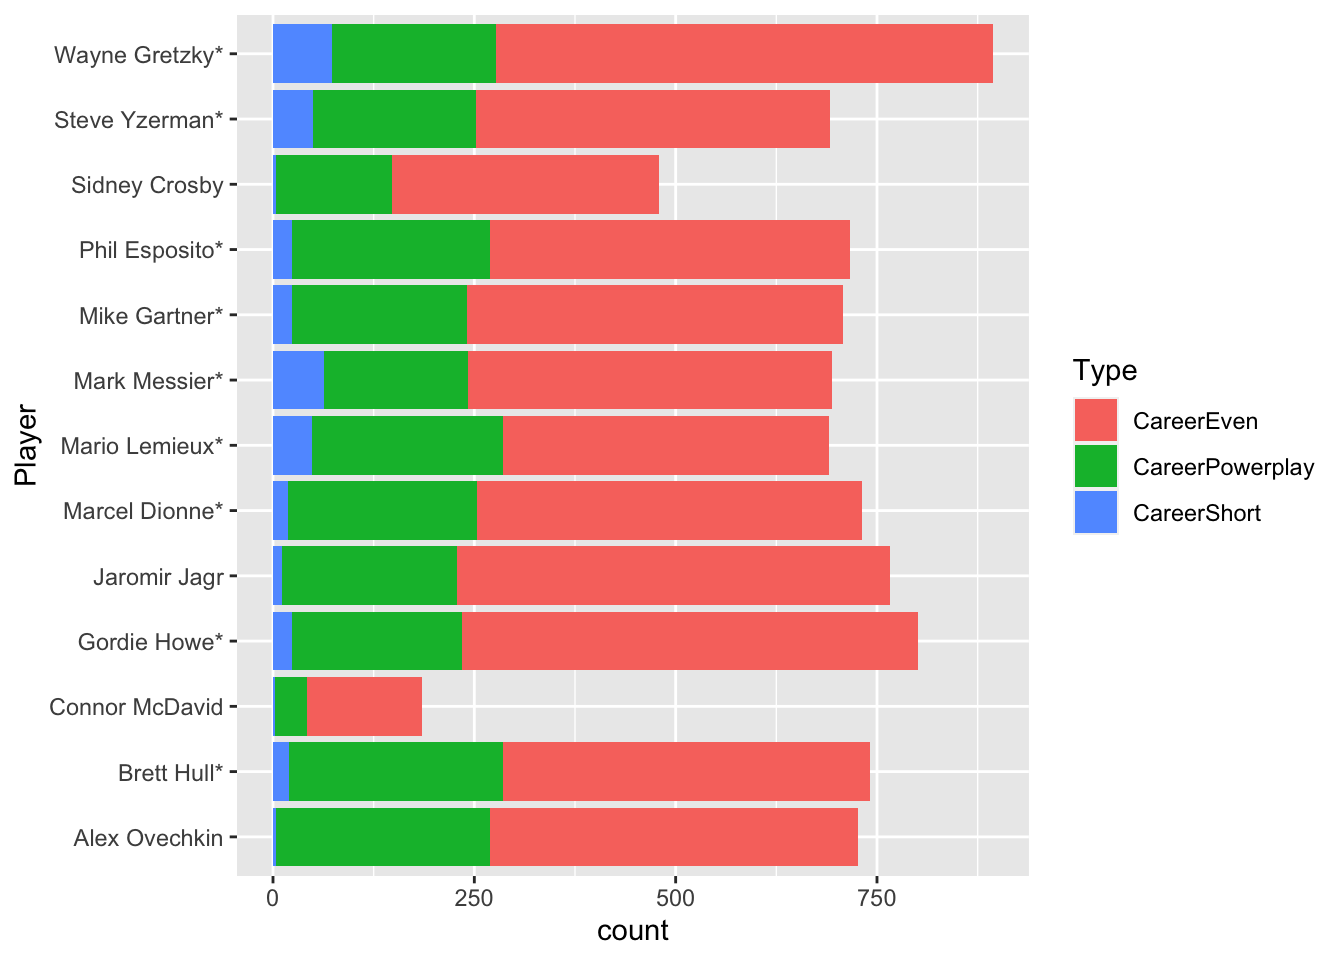
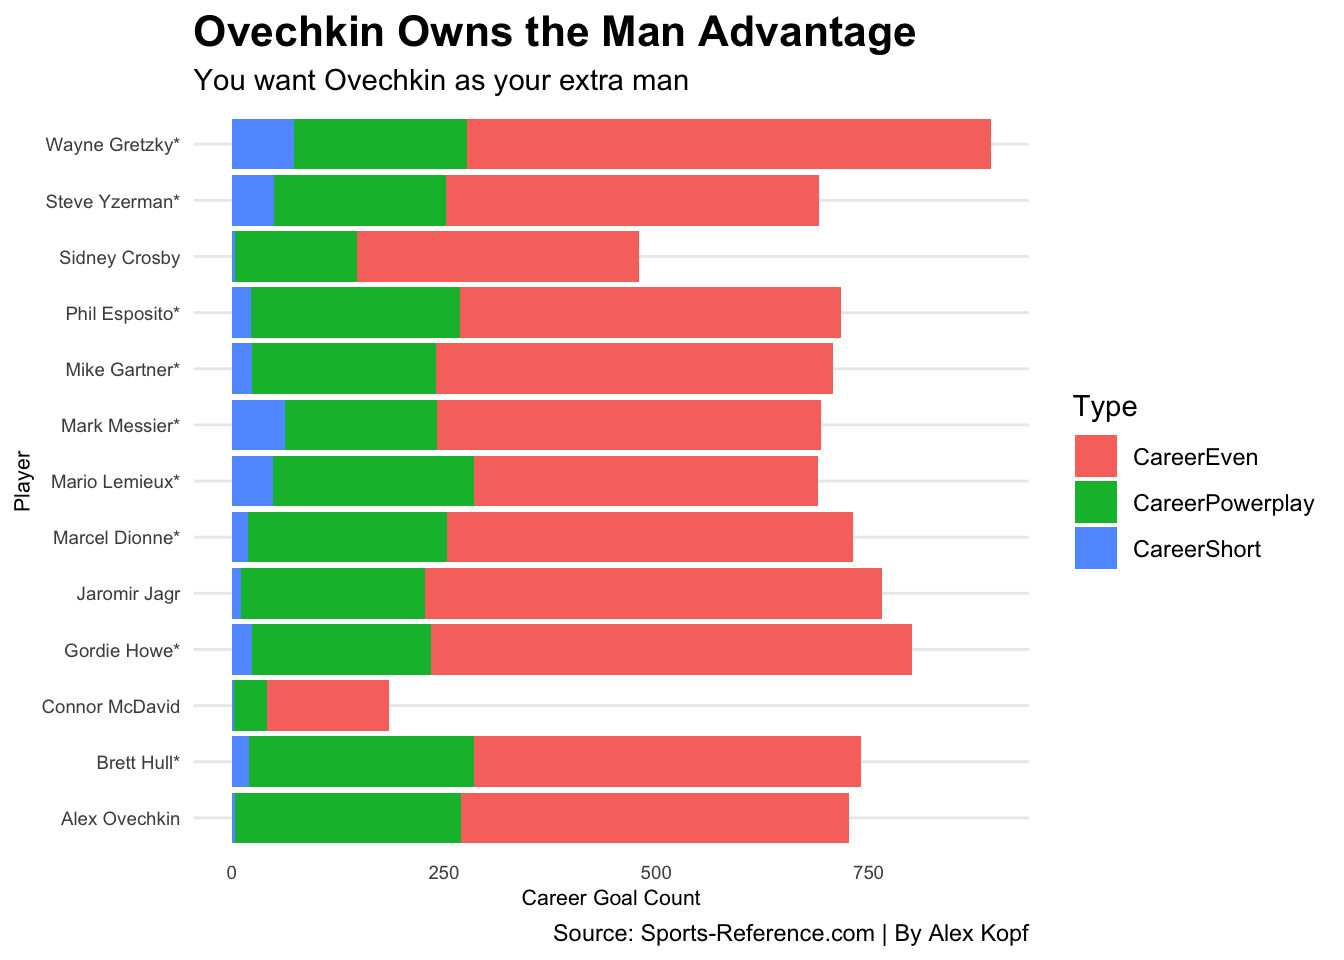
final final commit

diff --git a/2021/04/20/is-ovechkin-the-0greatest-pure-goal-scorer-of-all-time/index.html b/2021/04/20/is-ovechkin-the-0greatest-pure-goal-scorer-of-all-time/index.html
@@ -62,7 +62,7 @@
 
   <article class="article">
     
-    <span class="article-duration">2 min read</span>
+    <span class="article-duration">5 min read</span>
     
 
     <h1 class="article-title">Is Ovechkin the Greatest Pure Goal Scorer of All Time?</h1>
@@ -77,31 +77,16 @@
 
 
 <p>As a hockey fan my entire life, and sharing the same first name, I have always been a fan of Russian superstar Alexander Ovechkin of the Washington Capitals. As he continues his career, Ovechkin is nearing Gretzky’s goal record more and more. Even if he doesn’t pass it, could he be considered right now as the best pure goal scorer of all time? Lets look at some data</p>
-<pre class="r"><code>library(tidyverse)</code></pre>
-<pre><code>## ── Attaching packages ─────────────────────────────────────── tidyverse 1.3.1 ──</code></pre>
-<pre><code>## ✓ ggplot2 3.3.3     ✓ purrr   0.3.4
-## ✓ tibble  3.1.0     ✓ dplyr   1.0.5
-## ✓ tidyr   1.1.3     ✓ stringr 1.4.0
-## ✓ readr   1.4.0     ✓ forcats 0.5.1</code></pre>
-<pre><code>## ── Conflicts ────────────────────────────────────────── tidyverse_conflicts() ──
-## x dplyr::filter() masks stats::filter()
-## x dplyr::lag()    masks stats::lag()</code></pre>
-<pre class="r"><code>library(ggrepel)</code></pre>
+<pre class="r"><code>library(tidyverse)
+library(ggrepel)
+library(rvest)</code></pre>
 <pre class="r"><code>Ovi &lt;- read_csv(&quot;OviandGreats.csv&quot;)</code></pre>
-<pre><code>## Warning: Duplicated column names deduplicated: &#39;G&#39; =&gt; &#39;G_1&#39; [27], &#39;A&#39; =&gt;
-## &#39;A_1&#39; [28], &#39;PTS&#39; =&gt; &#39;PTS_1&#39; [29]</code></pre>
-<pre><code>## 
-## ── Column specification ────────────────────────────────────────────────────────
-## cols(
-##   .default = col_double(),
-##   Player = col_character(),
-##   Tm = col_character(),
-##   Pos = col_character()
-## )
-## ℹ Use `spec()` for the full column specifications.</code></pre>
-<pre class="r"><code>Ovi &lt;- Ovi %&gt;% mutate(Player=gsub(&quot;\\\\.*&quot;,&quot;&quot;,Player))</code></pre>
-<pre class="r"><code>Ovechkin &lt;- Ovi %&gt;% filter(Player == &quot;Alex Ovechkin&quot;)
-Gretzky &lt;- Ovi %&gt;% filter(Player == &quot;Wayne Gretzky*&quot;)</code></pre>
+<pre class="r"><code>Ovi &lt;- Ovi %&gt;% 
+  mutate(Player=gsub(&quot;\\\\.*&quot;,&quot;&quot;,Player))</code></pre>
+<pre class="r"><code>Ovechkin &lt;- Ovi %&gt;%
+  filter(Player == &quot;Alex Ovechkin&quot;)
+Gretzky &lt;- Ovi %&gt;% 
+  filter(Player == &quot;Wayne Gretzky*&quot;)</code></pre>
 <p>In the data set I acquired, we have the Top 11 goal scorers of all time, since Ovechkin is in the Top 10. I also included the player he is most compared to, Sidney Crosby, and argued the best player right now who is Connor McDavid.</p>
 <pre class="r"><code>Ovi %&gt;% summarise(avgspct = mean(`S%`))</code></pre>
 <pre><code>## # A tibble: 1 x 1
@@ -132,7 +117,17 @@ geom_point(
     data=Ovi, 
     aes(x=G, y=`S%`, label=Player)) +
   geom_hline(yintercept = 14.66154) +
-geom_vline(xintercept = 678.8462)</code></pre>
+geom_vline(xintercept = 678.8462) +
+  labs(x=&quot;Goal Count&quot;, y=&quot;Shooting %&quot;, title=&quot;Career Goals and Shooting Percentage&quot;, subtitle=&quot;Ovechkin takes the most shots by far&quot;, caption=&quot;Source: Sports-Reference.com | By Alex Kopf&quot;) +
+  theme_minimal() + 
+  theme(
+    plot.title = element_text(size = 16, face = &quot;bold&quot;),
+    axis.title = element_text(size = 8),
+    axis.text = element_text(size = 7),
+    axis.ticks = element_blank(),
+    panel.grid.minor = element_blank(),
+    panel.grid.major.x = element_blank() 
+  ) </code></pre>
 <p><img src="/2021/04/20/is-ovechkin-the-0greatest-pure-goal-scorer-of-all-time/index_files/figure-html/unnamed-chunk-6-1.png" width="672" />
 As we can see above, Ovechkin is dead last among his peers in the top 10 goal scorers when it comes to shooting percentage. However, he also takes the most shots out of anyone in the data set. Now let’s look at Ovechkin’s strongest suit, the powerplay.</p>
 <pre class="r"><code>goals &lt;- Ovi %&gt;% 
@@ -148,8 +143,88 @@ As we can see above, Ovechkin is dead last among his peers in the top 10 goal sc
     values_to=&quot;Goals&quot;) -&gt; cargoals</code></pre>
 <pre class="r"><code>ggplot(cargoals, aes(x=Player, weight=Goals, fill=Type)) + 
   geom_bar() + 
-  coord_flip() </code></pre>
+  coord_flip() +
+  labs(x=&quot;Player&quot;, y=&quot;Career Goal Count&quot;, title=&quot;Ovechkin Owns the Man Advantage&quot;, subtitle=&quot;You want Ovechkin as your extra man&quot;, caption=&quot;Source: Sports-Reference.com | By Alex Kopf&quot;) +
+  theme_minimal() + 
+  theme(
+    plot.title = element_text(size = 16, face = &quot;bold&quot;),
+    axis.title = element_text(size = 8),
+    axis.text = element_text(size = 7),
+    axis.ticks = element_blank(),
+    panel.grid.minor = element_blank(),
+    panel.grid.major.x = element_blank() 
+  ) </code></pre>
 <p><img src="/2021/04/20/is-ovechkin-the-0greatest-pure-goal-scorer-of-all-time/index_files/figure-html/unnamed-chunk-9-1.png" width="672" /></p>
+<p>As expected, Ovechkin has the most powerplay goals among the rest, so I would say it is safe to conclude if not the best scorer, Ovechkin is the best scorer with a man advantage. Why does this matter? If you’re pulling your goalie, you want Ovechkin as your extra man. Finally, I would like to compare the two main players we want to observe side by side. Ovechkin, and Gretzky.</p>
+<pre class="r"><code>CareerOvi &lt;- read_csv(&quot;ovechkin.csv&quot;) %&gt;% 
+  mutate(Name = &quot;Ovechkin&quot;)
+CareerGretzky &lt;- read_csv(&quot;gretzky.csv&quot;) %&gt;% 
+  mutate(Name = &quot;Gretzky&quot;)</code></pre>
+<pre class="r"><code>POI &lt;- bind_rows(CareerGretzky, CareerOvi)</code></pre>
+<pre class="r"><code>cumPOI &lt;- POI %&gt;% 
+  group_by(Name) %&gt;% 
+  mutate(CumGoals = cumsum(G)) </code></pre>
+<pre class="r"><code>GreatEight &lt;- cumPOI %&gt;% 
+  filter(Name == &quot;Ovechkin&quot;)
+GreatOne &lt;- cumPOI %&gt;% 
+  filter(Name == &quot;Gretzky&quot;)</code></pre>
+<pre class="r"><code>ggplot() + 
+  geom_step(data=cumPOI, aes(x=Season, y=CumGoals, group=Name), color=&quot;light grey&quot;) +
+  geom_step(data=GreatEight, aes(x=Season, y=CumGoals, group=Name), color=&quot;navy&quot;) + 
+  geom_step(data=GreatOne, aes(x=Season, y=CumGoals, group=Name), color=&quot;orange&quot;) + 
+  geom_hline(yintercept = 678.8462) +
+  labs(x=&quot;Season&quot;, y=&quot;Goals&quot;, title=&quot;Gretzky vs Ovechkin&quot;, subtitle=&quot;Will Ovechkin Catch The Great One?&quot;, caption=&quot;Source: Sports-Reference.com | By Alex Kopf&quot;) +
+  theme_minimal() + 
+  theme(
+    plot.title = element_text(size = 16, face = &quot;bold&quot;),
+    axis.title = element_text(size = 8),
+    axis.text = element_text(size = 7),
+    axis.ticks = element_blank(),
+    panel.grid.minor = element_blank(),
+    panel.grid.major.x = element_blank() 
+  ) + scale_x_discrete(breaks=c(&quot;1979-80&quot;,&quot;1984-85&quot;,&quot;1989-90&quot;,&quot;1994-95&quot;,&quot;1999-00&quot;,&quot;2004-05&quot;,&quot;2009-10&quot;,&quot;2014-15&quot;,&quot;2019-20&quot;))</code></pre>
+<p><img src="/2021/04/20/is-ovechkin-the-0greatest-pure-goal-scorer-of-all-time/index_files/figure-html/unnamed-chunk-14-1.png" width="672" />
+As shown above, Ovechkin hasn’t climbed as fast as Gretzky but isn’t too far off depending on how many years he continues to play. Based off our three charts created, we can conclude that as of now, Ovechkin is not the best goal scorer of all time. But there is another stat that surprised me. There is a section that adjusts the stats of players to make them comparable as if they all players the same number of game seasons, faced the same goalies and same scoring ocurred. Here is how it is explained via sports reference. In order to do this, divide 82 by the number of scheduled games per team. In 1952-53 the NHL played a 70-game schedule, so the schedule adjustment is 82 / 70 = 1.17.</p>
+<p>The roster size adjustment is computed by dividing the maximum roster size for the season in question by 18. Teams were allowed to carry a maximum of 16 skaters at home and 15 skaters on the road during the 1952-53 season, so the roster size adjustment is 15.5 / 18 = 0.86.</p>
+<p>Next calculate the era adjustment, which we will do by dividing 6 by the league average goals per game without the player in question. In 1952-53 a total of 1006 goals were scored in 210 games. Without Howe this works out to (1006 - 49) / 210 = 4.56 goals per game, so our era adjustment is 6 / 4.56 = 1.32.</p>
+<p>Finally, we put everything together. Take the player’s actual goals and multiply by the adjustments we computed above.</p>
+<p>So I would like to look at the same scatterplot from above but with adjusted goals.</p>
+<pre class="r"><code>Ovi &lt;- Ovi %&gt;% 
+  rename(AdjG = G_1) </code></pre>
+<pre class="r"><code>Ovechkin &lt;- Ovechkin %&gt;% 
+  rename(AdjG =G_1)
+Gretzky &lt;- Gretzky %&gt;%
+  rename(AdjG = G_1)</code></pre>
+<pre class="r"><code>ggplot() +
+geom_point(
+    data=Ovi, 
+    aes(x=AdjG, y=`S%`, size= S), 
+    color=&quot;grey&quot;, 
+    alpha=.5) + 
+  geom_point(
+    data=Ovechkin, 
+    aes(x=AdjG, y=`S%`, size= S), 
+    color=&quot;red&quot;) + 
+   geom_point(
+    data=Gretzky, 
+    aes(x=AdjG, y=`S%`, size= S), 
+    color=&quot;blue&quot;) +
+  geom_text_repel(
+    data=Ovi, 
+    aes(x=AdjG, y=`S%`, label=Player)) +
+  geom_hline(yintercept = 14.66154) +
+geom_vline(xintercept = 678.8462) +
+  labs(x=&quot;Adjusted Goal Count&quot;, y=&quot;Shooting %&quot;, title=&quot;Adjusted Goals makes a difference&quot;, subtitle=&quot;Ovechkin takes the lead over Gretzky when adjuested goals are put in play&quot;, caption=&quot;Source: Sports-Reference.com | By Alex Kopf&quot;) +
+  theme_minimal() + 
+  theme(
+    plot.title = element_text(size = 16, face = &quot;bold&quot;),
+    axis.title = element_text(size = 8),
+    axis.text = element_text(size = 7),
+    axis.ticks = element_blank(),
+    panel.grid.minor = element_blank(),
+    panel.grid.major.x = element_blank() 
+  ) </code></pre>
+<p><img src="/2021/04/20/is-ovechkin-the-0greatest-pure-goal-scorer-of-all-time/index_files/figure-html/unnamed-chunk-17-1.png" width="672" /></p>
 
     </div>
   </article>
